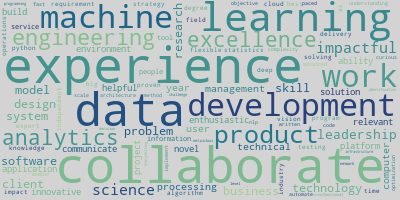
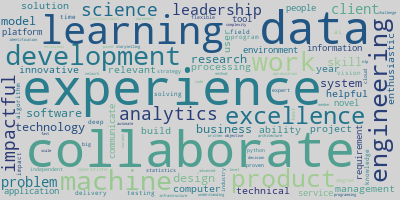
finalized if-else cascade to handle drops for percentages viz

diff --git a/nlp_main.py b/nlp_main.py
@@ -4001,7 +4001,6 @@ def visualize_subtopic(df, df_jobs_raw, terms_for_nlp, n_grams, subtopic_list, u
         return bigram_match_to_subtopic_list, monograms_df_sns
 
 
-
     def monograms_and_bigrams_by_count():
         '''
         Visualize the top n combined list of monograms and bigrams according to how many times they appear
@@ -4012,19 +4011,11 @@ def visualize_subtopic(df, df_jobs_raw, terms_for_nlp, n_grams, subtopic_list, u
         bigram_match_to_subtopic_list : list
             A list of bigrams in which each bigram has at least one term matching a term in the subtopic list.
 
-        '''  
-        ### DELETE AFTER FINAL TESTING
-        # subtopic_list = subtopic_viz 
-#         # subset the monograms that appear in the subtopic skills list
-#         mask_monogram = n_grams.grams.isin(subtopic_list) # fix here with subtopic_list
-#         monograms_df_sns = n_grams[mask_monogram]
-        
+        '''       
         # generate bigrams from the full terms_for_nlp list
         n_gram_count = 2
         n_gram_range_start, n_gram_range_stop  = 0, 100
         bigrams = nlp_count_n_grams(terms_for_nlp, n_gram_count, n_gram_range_start, n_gram_range_stop)
-
-###!!! WORKING HERE: debug here the polluting bigrams do not overlap with the subtopic list!!!!
         
         # subset the bigrams for which at least one term appears in the subtopic skills list
         bigram_match_to_subtopic_list = [x for x in bigrams.grams if any(b in x for b in subtopic_list)] 
@@ -4213,8 +4204,21 @@ def visualize_subtopic(df, df_jobs_raw, terms_for_nlp, n_grams, subtopic_list, u
         df_jobs_combined_sns['percentage'] = [round(x / len(df_jobs_raw)*100, 2) for x in df_jobs_combined_sns['count']]
         df_jobs_combined_sns = df_jobs_combined_sns.sort_values('percentage', ascending=False).reset_index(drop=True)
     
-        # drop all subtopic terms and phrases that do not appearin df_jobs_combined_sns
+        # drop all subtopic terms and phrases that do not appear in df_jobs_combined_sns
         df_jobs_combined_sns = df_jobs_combined_sns.loc[(df_jobs_combined_sns.T !=0).any()]
+        
+        # drop erroneous bigrams based on the specific subtopic
+        if bigram_drop_flag == 'subtopic_viz':
+            # identify noisy, duplicate or unhelpful terms and phrases
+            ngrams_to_silence = ['computer vision', 'excellence communicate', 'data visualization',
+                                  'excellence collaborate', 'collaborate excellence'] 
+            
+            # exclude unwanted terms and phrases
+            df_jobs_combined_sns = df_jobs_combined_sns[~df_jobs_combined_sns.subtopic_term_phrase.isin(ngrams_to_silence)].reset_index(drop=True)
+            
+            # ngram_combined_sns = ngram_combined_sns[~ngram_combined_sns.grams.isin(ngrams_to_silence)].reset_index(drop=True)
+        else:
+            pass 
         
         # visualize combined mongrams and bigrams
         plt.figure(figsize=(7, 10))
@@ -4253,11 +4257,6 @@ def visualize_subtopic(df, df_jobs_raw, terms_for_nlp, n_grams, subtopic_list, u
     df_jobs_bigrams = bigrams_by_percentage()
     monograms_and_bigrams_by_count()
     monograms_and_bigrams_by_percentage()
-
-
-
-
-
 
 
 def nlp_skill_lists(additional_stopwords):
